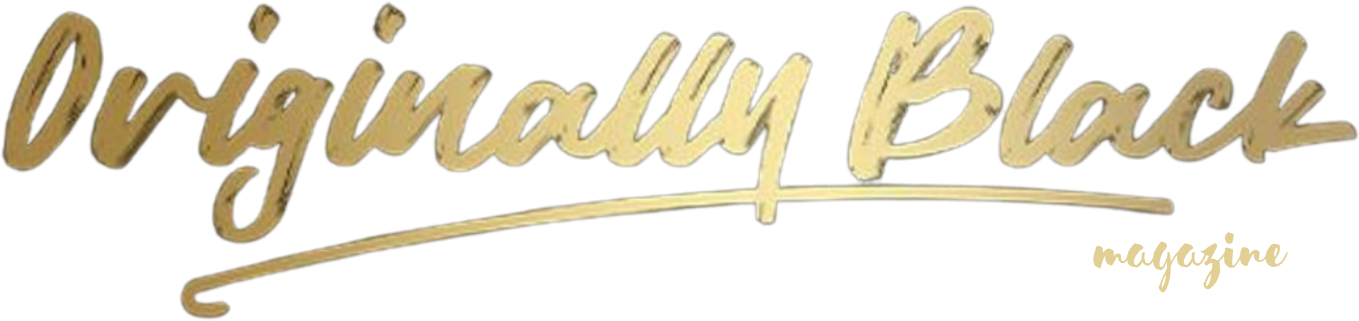
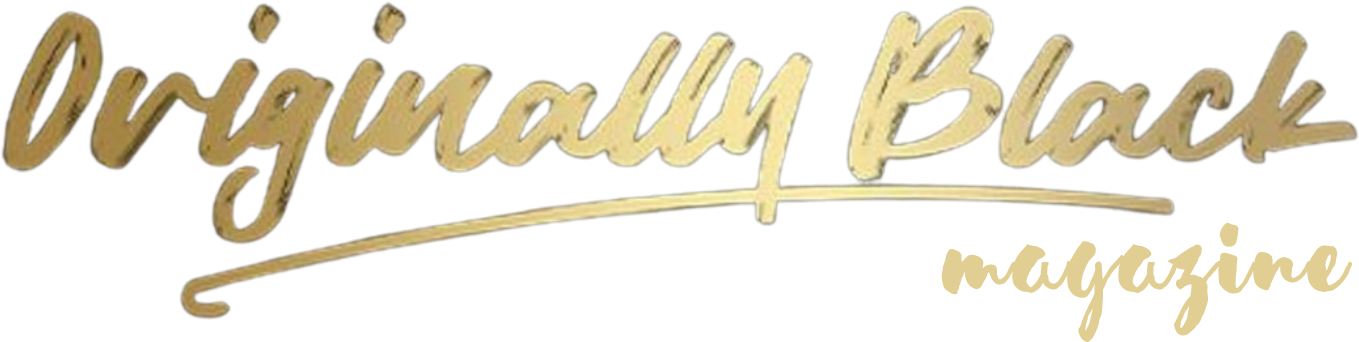
Final Review Update

diff --git a/resources/views/user/image_view.blade.php b/resources/views/user/image_view.blade.php
@@ -26,22 +26,22 @@
     </head>
     <body>
         <div style="width:700px; height:990px; background:url('{{ asset("work/resized/".$imageInfo['original_image'])}}'); background-repeat:no-repeat; background-size:cover; background-position: center;">
-            <div style="position:absolute; margin-left:305px; margin-top:10px;"><img src="{{ asset('img/logo.png') }}" width="75"></div>
-            <div style="width:inherit; position:absolute; margin-top:80px; text-align:center;">
-                <img src="{{ asset('img/originally-black0.png') }}" style="width:450px;">
+            <!--<div style="position:absolute; margin-left:305px; margin-top:10px;"><img src="{{ asset('img/logo.png') }}" width="75"></div>-->
+            <div style="width:inherit; position:absolute; margin-top:20px; text-align:center;">
+                <img src="{{ asset('img/originally-black0.png') }}" style="width:600px; height:auto;">
             </div>
     
             <!-- Nickname -->
-            <div style="position:absolute; width:160px; margin-top:370px; margin-left:530px; text-align:right; font-size:100%;">
-                <div style="color:#FFF; font-size:15px; font-family:PlayfairDisplay; font-weight:400; text-transform:uppercase;">Nickname</div>
+            <div style="position:absolute; width:220px; margin-top:280px; margin-left:480px; text-align:center; font-size:100%;">
+                <div style="color:#FFF; font-size:18px; font-family:PlayfairDisplay; font-weight:600; text-transform:uppercase;">Nickname</div>
                 @php $nickname = explode(' ', $imageInfo['nickname']) @endphp
-                <span style="color:#E1CF93; padding-right:10px; font-family:Barabara; text-transform:uppercase;">@foreach($nickname as $nick) {{ $nick }} @endforeach</span>
+                <span style="color:#E1CF93; padding-right:10px; font-family:Barabara; text-transform:uppercase;">@foreach($nickname as $nick) {{ $nick }}<br> @endforeach</span>
             </div>
     
             <!-- Traits -->
-            <div style="position:absolute; width:inherit; margin-top:350px;">
-                <div style="color:#E1CF93; font-size:23px; padding-left:20px; font-family:Barabara; text-transform:uppercase;">Originality <br>Traits</div>
-                <ul style="color:#FFF; margin-top:0; font-family:Arial, Helvetica, sans-serif; font-size:13px">
+            <div style="position:absolute; width:inherit; margin-top:370px; margin-left:10px;">
+                <div style="color:#E1CF93; font-size:27px; padding-left:20px; font-family:Barabara; text-transform:uppercase;">Originality <br>Traits</div>
+                <ul style="color:#FFF; margin-top:0; font-family:Arial, Helvetica, sans-serif; font-size:17px; font-weight:600;">
                     @php 
                         $traits = explode(',', $imageInfo['traits']);
                         for ($i=0; $i < 3; $i++) {
@@ -65,14 +65,15 @@
 	    		<img src="{{ asset('img/barcode.png') }}" style="width:90px; margin-right:50px;">
 		    </div>
 
-            <!-- Drink Responsibly -->
-		    <div style="position:absolute; width:inherit; margin-top:950px;">
-	    		<img src="{{ asset('img/drink-responsibly.png') }}" style="width:90px; margin-left:30px;">
+            <!-- Powered By -->
+		    <div style="position:absolute; width:inherit; margin-top:860px;">
+                <p style="padding-left: 20px;"><span style="color:#FFF; font-size:14px;">Powered by</span><br>
+                <img src="{{ asset('img/logo.png') }}" width="75"></p>
     		</div>
 
-		    <!-- Website link -->
-    		<div style="position:absolute; width:inherit; margin-top:940px; text-align:center; color:#FFF; font-size:14px; font-family: Arial;">
-                Powered by Trophy Stout
+		    <!-- Drink Responsibly -->
+    		<div style="position:absolute; width:300px; margin-top:950px; margin-left:200px; text-align:center; color:#FFF; font-size:14px; font-family: Arial;">
+                <img src="{{ asset('img/drink-responsibly.png') }}" style="width:120px; margin-left:30px;">
 	    	</div>
         </div>
     </body>
